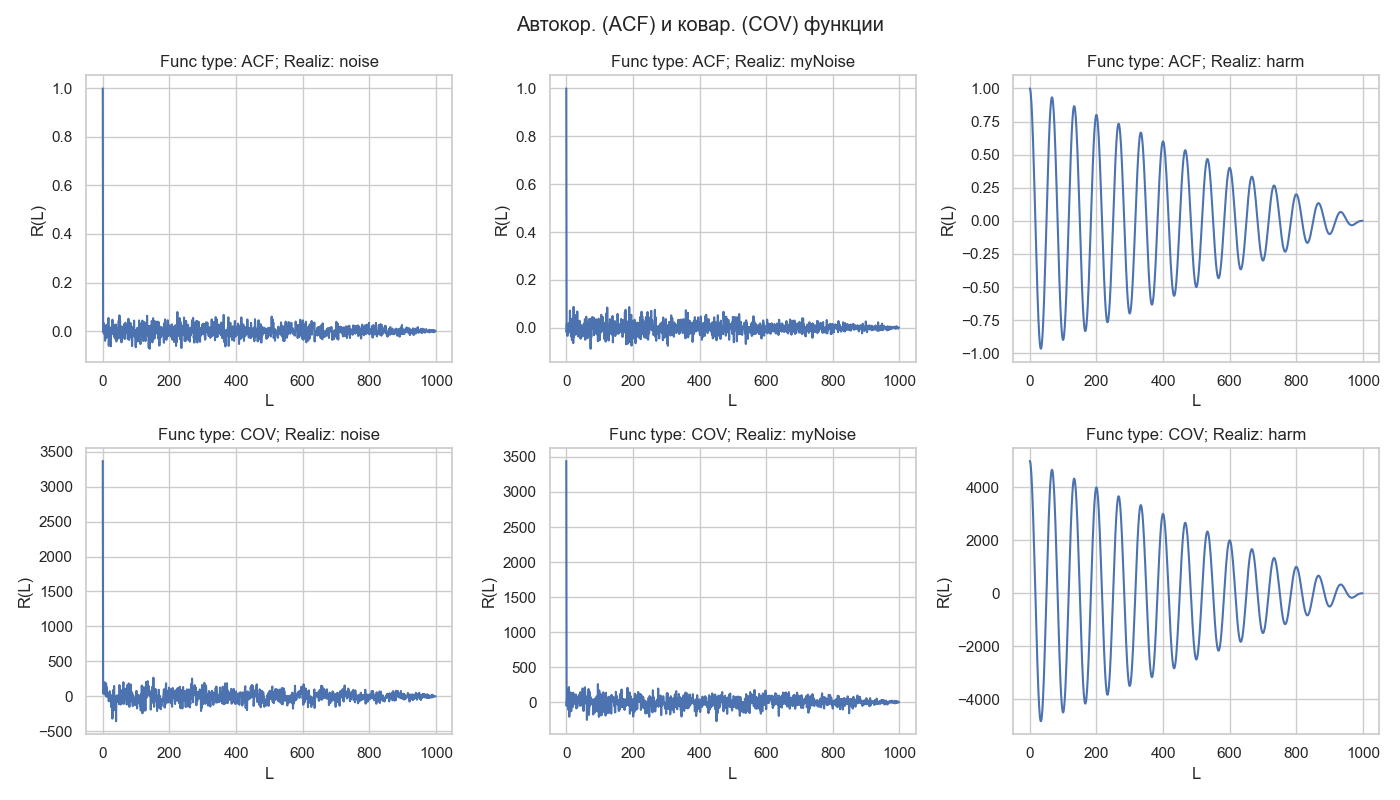
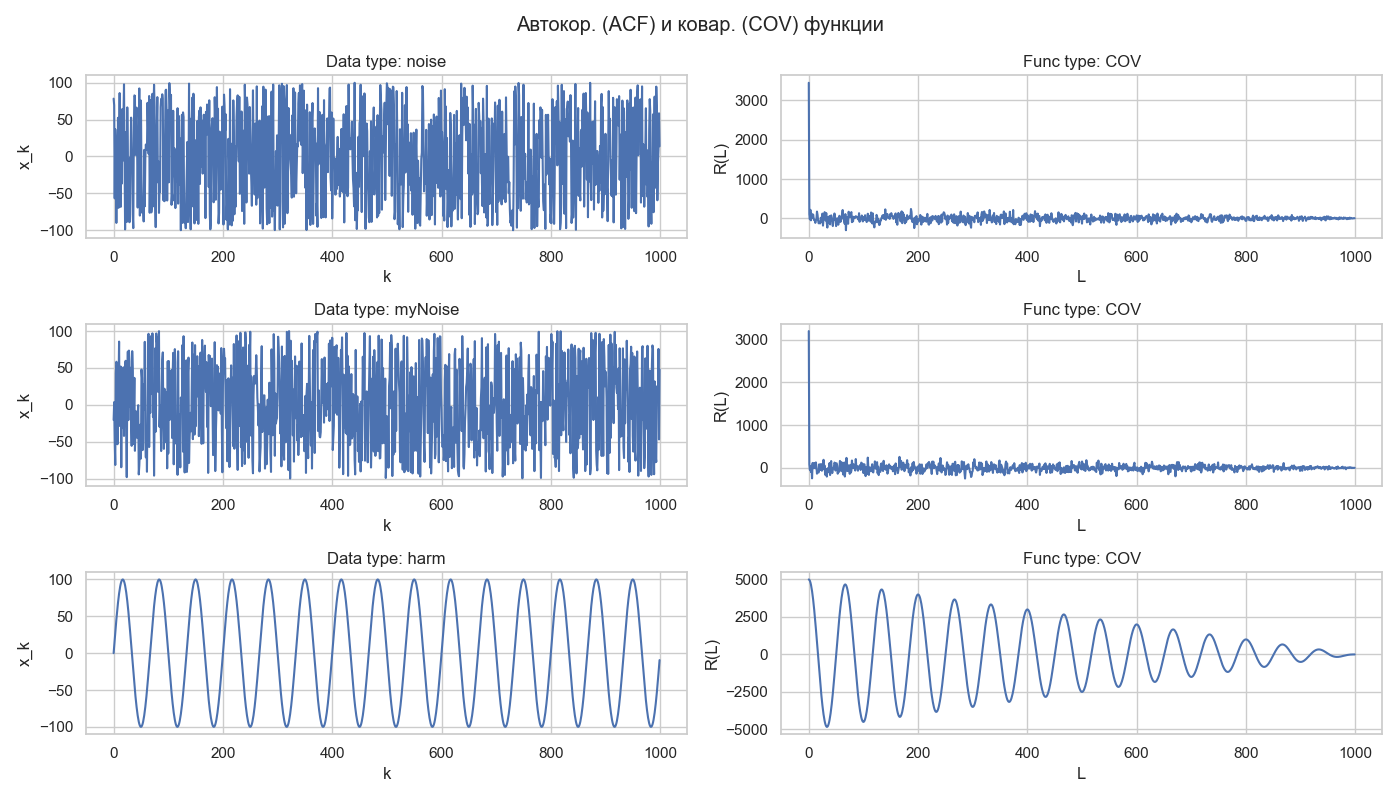
Lab6: modified func plots

diff --git a/Lab6/src/main.py b/Lab6/src/main.py
@@ -15,16 +15,20 @@ def make_line_plot(title: str, x: np.ndarray, y: np.ndarray, x_label="N", y_labe
     return plot
 
 def test_hist_method():
+    global fig
+
     def __test_trend_methods():
-        a = 10
+        a = 0.001
         b = 0
         delta = 1
         funcs = [TrendFuncs.linear_func, TrendFuncs.exp_func]
         for i in range(len(funcs)):
             data = Model.trend(funcs[i], a, b, delta, N)
             result = Analysis.hist(data, M)
-            plt.subplot(3, 3, i+1)
-            make_line_plot(f'Trend: {funcs[i].__name__}', np.arange(M), result, 'M', 'h')
+            plt.subplot(2, 2, i*2+1)
+            make_line_plot(f'Trend: {funcs[i].__name__}', np.arange(N), data, 't', 'x(t)')
+            plt.subplot(2, 2, i*2+2)
+            make_line_plot(f'Histogram: {funcs[i].__name__}', np.arange(M), result, 'M', 'h')
 
     def __test_noise_methods():
         R = 100
@@ -32,70 +36,93 @@ def test_hist_method():
         for i in range(len(funcs)):
             data = funcs[i](N, R)
             result = Analysis.hist(data, M)
-            plt.subplot(3, 3, i+3)
-            make_line_plot(f'Noise: {funcs[i].__name__}', np.arange(M), result, 'M', 'h')
+            plt.subplot(2, 2, i*2+1)
+            make_line_plot(f'Noise: {funcs[i].__name__}', np.arange(N), data, 'N', 'x_k')
+            plt.subplot(2, 2, i*2+2)
+            make_line_plot(f'Histogram: {funcs[i].__name__}', np.arange(M), result, 'M', 'h')
+
+    def __test_harm_methods():
+        A0 = 100
+        f = 5
+        dt = 0.001
+        m = 3
+        A = [100, 15, 20]
+        F = [33, 5, 170]
+        data = Model.harm(N, A0, f, dt)
+        result = Analysis.hist(data, M)
+        plt.subplot(2, 2, 1)
+        make_line_plot('Harm', np.arange(N), data, 'k', 'x_k')
+        plt.subplot(2, 2, 2)
+        make_line_plot('Histogram', np.arange(M), result, 'M', 'h')
+
+        data = Model.polyHarm(N, A, F, m, dt)
+        result = Analysis.hist(data, M)
+        plt.subplot(2, 2, 3)
+        make_line_plot('PolyHarm', np.arange(N), data, 'k', 'x_k')
+        plt.subplot(2, 2, 4)
+        make_line_plot('Histogram', np.arange(M), result, 'M', 'h')
+        print(f'Граничная частота полигармонического процесса: {np.max(F)}')
 
     def __test_spikes_method():
         R = 100
         Rs = 100 * 0.1
-        data = Model.spikes(N, M, R, Rs)
+        data = Model.spikes(N, 1, R, Rs)
         result = Analysis.hist(data, M)
-        plt.subplot(3, 3, 5)
-        make_line_plot('Spikes', np.arange(M), result, 'M', 'h')
-
-    def __test_harm_method():
-        A0 = 100
-        f = 15
-        dt = 0.001
-        data = Model.harm(N, A0, f, dt)
-        result = Analysis.hist(data, M)
-        plt.subplot(3, 3, 6)
-        make_line_plot('Harm', np.arange(M), result, 'M', 'h')
-
-    def __test_polyHarm_method():
-        N = 1000
-        m = 3
-        A = [100, 15, 20]
-        f = [33, 5, 170]
-        dt = 0.002
-        data = Model.polyHarm(N, A, f, m, dt)
-        result = Analysis.hist(data, M)
-        plt.subplot(3, 3, 7)
-        make_line_plot('PolyHarm', np.arange(M), result, 'M', 'h')
-        print(f'Частота полигармонического процесса: {np.max(f)}')
+        plt.subplot(1, 2, 1)
+        make_line_plot('Spikes', np.arange(N), data, 'N', 'R')
+        plt.subplot(1, 2, 2)
+        make_line_plot('Histogram', np.arange(M), result, 'M', 'h')
 
     N = 10000
     M = 100
-    inner_funcs = [__test_trend_methods, __test_noise_methods, __test_spikes_method,
-                   __test_harm_method, __test_polyHarm_method]
-    for func in inner_funcs:
-        func()
+    inner_funcs = [__test_trend_methods, __test_noise_methods, __test_harm_methods, __test_spikes_method]
+    for i in range(len(inner_funcs)):
+        inner_funcs[i]()
+        if i != len(inner_funcs) - 1:
+            plt.tight_layout()
+            fig.savefig(f"./plots/{title}_{i+1}.png")
+            current_title = fig._suptitle.get_text()
+            fig = plt.figure(figsize=(14, 8))
+            fig.suptitle(current_title)
 
 def test_acf_method():
-    realizations = [Model.noise, Model.myNoise, Model.harm]
-    realizations_name = ['noise', 'myNoise', 'harm']
+    global fig
+    realizations = {Model.noise: 'noise', Model.myNoise: 'myNoise', Model.harm: 'harm'}
     acf_types = [ACFType.ACF, ACFType.COV]
     N = 1000
     R = 100
     A0 = 100
     F0 = 15
     dt = 0.001
-    i = 0
+    j = 1
     for t in acf_types:
-        for r in realizations:
+        i = 0
+        for r, name in realizations.items():
             if r is Model.harm:
                 data = r(N, A0, F0, dt)
             else:
                 data = r(N, R)
             result = Analysis.acf(data, N, t)
-            plt.subplot(2, 3, i+1)
-            plot_name = f'Func type: {t.name}; Realiz: {realizations_name[i%3]}'
+
+            plt.subplot(3, 2, i*2+1)
+            plot_name = f'Data type: {name}'
+            make_line_plot(plot_name, np.arange(N), data, 'k', 'x_k')
+            plt.subplot(3, 2, i*2+2)
+            plot_name = f'Func type: {t.name}'
             make_line_plot(plot_name, np.arange(N), result, 'L', 'R(L)')
             i += 1
 
+        if j == 1:
+            plt.tight_layout()
+            fig.savefig(f"./plots/{title}_{j}.png")
+            current_title = fig._suptitle.get_text()
+            fig = plt.figure(figsize=(14, 8))
+            fig.suptitle(current_title)
+        j += 1
+
 def test_ccf_method():
+    global fig
     realizations = [Model.noise, Model.myNoise, Model.harm, Model.harm]
-    realizations_name = ['noise', 'myNoise', 'harm', 'harm']
     ccf_types = [CCFType.CCF, CCFType.CCOV]
     N = 1000
     R = 100
@@ -103,26 +130,44 @@ def test_ccf_method():
     f0 = 15
     f1 = 30
     dt = 0.001
-    i = 0
+    j = 1
     for t in ccf_types:
+        i = 0
         for r in realizations:
             if r is Model.harm:
-                if i % 4 != 3:
+                if i % 2 != 1:
                     dataX = r(N, A0, f0, dt)
                     dataY = r(N, A0, f0, dt)
-                    plot_name = f'Func type: {t.name}; Realiz: {realizations_name[i%4]}; f0=f1={f0}'
+                    plot_name = f'Func type: {t.name}; Realiz: {r.__name__}; f0=f1={f0}'
                 else:
                     dataX = r(N, A0, f0, dt)
                     dataY = r(N, A0, f1, dt)
-                    plot_name = f'Func type: {t.name}; Realiz: {realizations_name[i%4]}; f0={f0}, f1={f1}'
+                    plot_name = f'Func type: {t.name}; Realiz: {r.__name__}; f0={f0}, f1={f1}'
             else:
                 dataX = r(N, R)
                 dataY = r(N, R)
-                plot_name = f'Func type: {t.name}; Realiz: {realizations_name[i%4]}'
+                plot_name = f'Func type: {t.name}; Realiz: {r.__name__}'
             result = Analysis.ccf(dataX, dataY, N, t)
-            plt.subplot(4, 2, i+1)
+
+            plt.subplot(4, 3, i*3+1)
+            plotX_name = f'Realiz_X: {r.__name__}'
+            make_line_plot(plotX_name, np.arange(N), dataX, 'k', 'x_k')
+
+            plt.subplot(4, 3, i*3+2)
+            plotY_name = f'Realiz_Y: {r.__name__}'
+            make_line_plot(plotY_name, np.arange(N), dataY, 'k', 'x_k')
+
+            plt.subplot(4, 3, i*3+3)
             make_line_plot(plot_name, np.arange(N), result, 'L', 'R(L)')
             i += 1
+
+        if j == 1:
+            plt.tight_layout()
+            fig.savefig(f"./plots/{title}_{j}.png")
+            current_title = fig._suptitle.get_text()
+            fig = plt.figure(figsize=(14, 8))
+            fig.suptitle(current_title)
+        j += 1
 
 
 if __name__ == '__main__':

diff --git a/Lab6/src/model.py b/Lab6/src/model.py
@@ -128,14 +128,22 @@ class Model:
 
     @staticmethod
     def harm(N: int, A_0: float, f_0: float, dt: float) -> np.ndarray:
-        """Гармонический процесс"""
+        """
+        Гармонический процесс
+        x(t) = {x_k} = A_0 * sin(2π*f_0*Δt*k)
+        k=0,1,2,...,N-1
+        """
         k = np.arange(N)
         x = A_0 * np.sin(2 * np.pi * f_0 * dt * k)
         return x
 
     @staticmethod
     def polyHarm(N: int, A: np.ndarray, f: np.ndarray, M: int, dt: float) -> np.ndarray:
-        """Полигармонический процесс"""
+        """
+        Полигармонический процесс
+        x(t) = {x_k} = ∑(A_i*sin(2π*f_0*Δt*k))
+        k=0,1,2,...,N-1
+        """
         k = np.arange(N)
         x = np.zeros(N)
         for i in range(len(k)):
